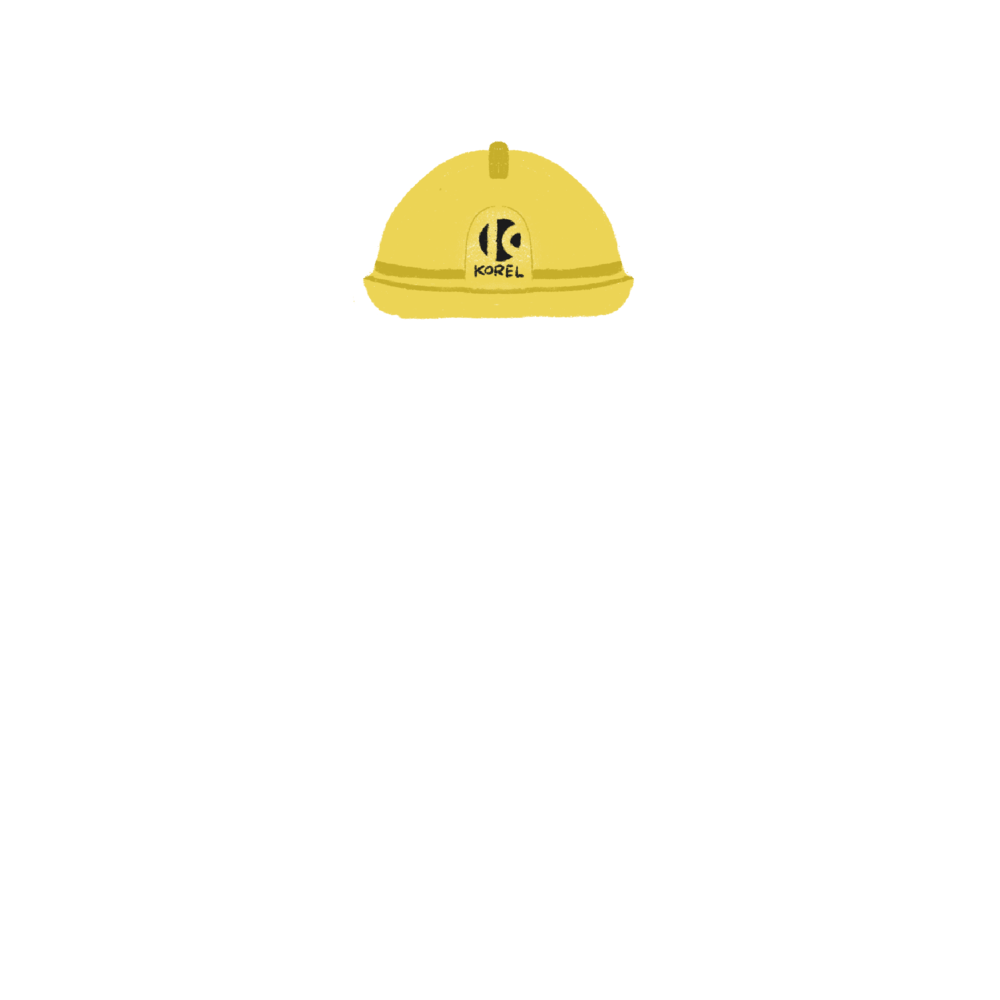
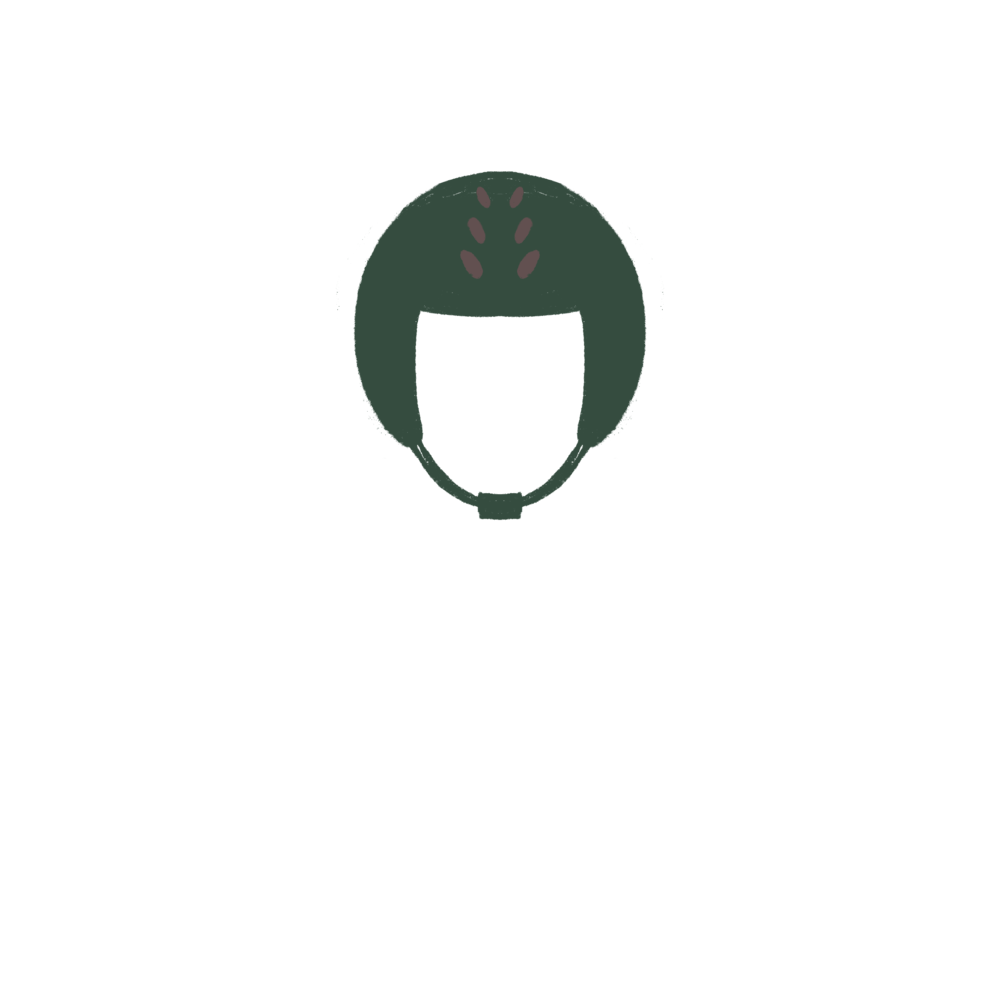
Update assets

Changed region(s): [[0.341, 0.124, 0.651, 0.527]]

diff --git a/lib/a7e1f31af54d6565e019b0a8327439d7.js b/lib/a7e1f31af54d6565e019b0a8327439d7.js
@@ -22,7 +22,7 @@ var categoryEnum = {
 };
 var categoriesInOrder = [categoryEnum.base, categoryEnum.face, categoryEnum.hair, categoryEnum.helmet, categoryEnum.mask, categoryEnum.goggles, categoryEnum.weapon, categoryEnum.words];
 var cateLabel = (_cateLabel = {}, _defineProperty(_cateLabel, categoryEnum.base, '場景'), _defineProperty(_cateLabel, categoryEnum.face, '面容'), _defineProperty(_cateLabel, categoryEnum.hair, '頭髮'), _defineProperty(_cateLabel, categoryEnum.helmet, '頭盔'), _defineProperty(_cateLabel, categoryEnum.mask, '面罩'), _defineProperty(_cateLabel, categoryEnum.goggles, '眼鏡'), _defineProperty(_cateLabel, categoryEnum.weapon, '配件'), _defineProperty(_cateLabel, categoryEnum.words, '文字'), _cateLabel);
-var cateAssetsCount = (_cateAssetsCount = {}, _defineProperty(_cateAssetsCount, categoryEnum.base, 6), _defineProperty(_cateAssetsCount, categoryEnum.face, 7), _defineProperty(_cateAssetsCount, categoryEnum.hair, 7), _defineProperty(_cateAssetsCount, categoryEnum.helmet, 5), _defineProperty(_cateAssetsCount, categoryEnum.mask, 5), _defineProperty(_cateAssetsCount, categoryEnum.goggles, 5), _defineProperty(_cateAssetsCount, categoryEnum.weapon, 8), _defineProperty(_cateAssetsCount, categoryEnum.words, 6), _cateAssetsCount);
+var cateAssetsCount = (_cateAssetsCount = {}, _defineProperty(_cateAssetsCount, categoryEnum.base, 6), _defineProperty(_cateAssetsCount, categoryEnum.face, 7), _defineProperty(_cateAssetsCount, categoryEnum.hair, 8), _defineProperty(_cateAssetsCount, categoryEnum.helmet, 4), _defineProperty(_cateAssetsCount, categoryEnum.mask, 5), _defineProperty(_cateAssetsCount, categoryEnum.goggles, 5), _defineProperty(_cateAssetsCount, categoryEnum.weapon, 8), _defineProperty(_cateAssetsCount, categoryEnum.words, 6), _cateAssetsCount);
 var assetsOrigin = '';
 var assetsPath = 'assets';
 var assetsType = {

diff --git a/index.html b/index.html
@@ -34,7 +34,7 @@
   <script src="https://cdnjs.cloudflare.com/ajax/libs/lodash.js/4.17.13/lodash.min.js" integrity="sha256-u6wkd45NlhSbHkAQEtw18F3PMyvbJejgBSMtRDpTdOs=" crossorigin="anonymous"></script>
   <script src="https://cdnjs.cloudflare.com/ajax/libs/pixi.js/5.1.1/pixi.min.js" integrity="sha256-wcKW4apmmEftCWGQ0zaHFnv8clOjur0Kir5nMYd+TEU=" crossorigin="anonymous"></script>
   <link rel="stylesheet" href="style.css">
-  <script src="lib/26898bc8f4a3658b1dbfc2247f08ed6c.js"></script>
+  <script src="lib/a7e1f31af54d6565e019b0a8327439d7.js"></script>
 </head>
 <body>
   <div id="main">

diff --git a/src/main.js b/src/main.js
@@ -37,8 +37,8 @@ const cateLabel = {
 const cateAssetsCount = {
   [categoryEnum.base]: 6,
   [categoryEnum.face]: 7,
-  [categoryEnum.hair]: 7,
-  [categoryEnum.helmet]: 5,
+  [categoryEnum.hair]: 8,
+  [categoryEnum.helmet]: 4,
   [categoryEnum.mask]: 5,
   [categoryEnum.goggles]: 5,
   [categoryEnum.weapon]: 8,
